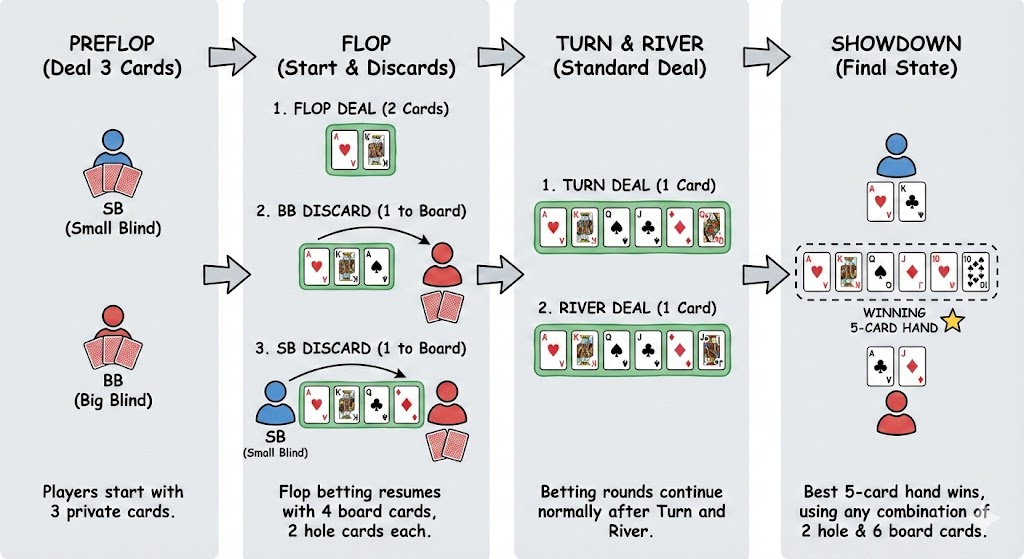
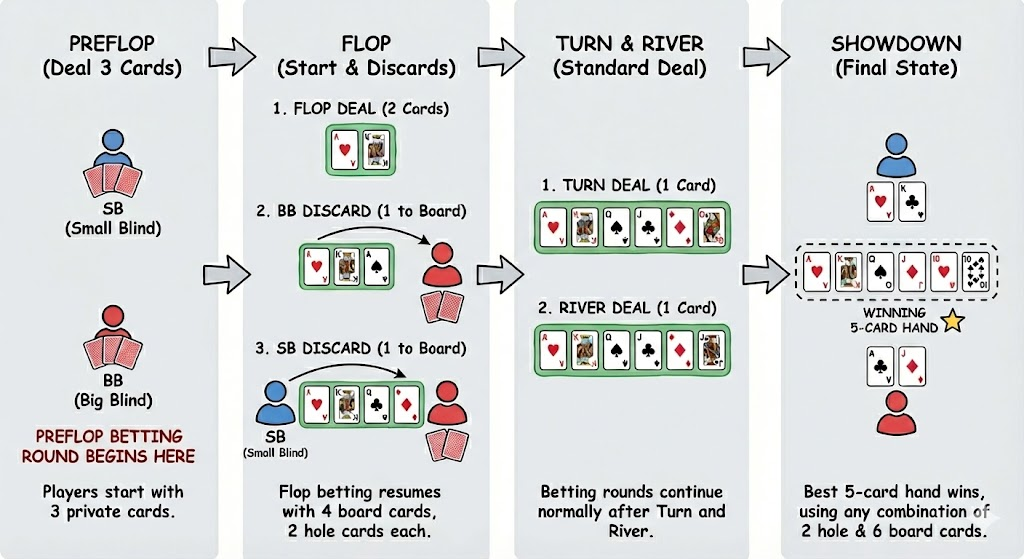
wording fixes

diff --git a/assets/blog/pokerbots.md b/assets/blog/pokerbots.md
@@ -1,10 +1,10 @@
-Very recently my team and I won MIT Pokerbots under the team Heyo999. Every year, MIT hosts a month long competition in January where competitors submit agents to play heads up poker in a custom variant. In this post, I aim to showcase the work that my team has put out without ruining the competition for future years. Many details are left open so that future competitors have a starting point but will still have to put in work and intuition to get good results. 
+Very recently my team and I won MIT Pokerbots under the team Heyo999. Every year, MIT hosts a month long competition in January where competitors submit agents to play heads up poker in a custom variant. In this post, I aim to showcase the work that my team has built without ruining the competition for future years. Many details are left open so that future competitors have a starting point but will still have to put in work and intuition to get good results. 
 
 I will assume you are familiar with a basic level of poker terminology. 
 
 ### Rules
 
-The variant is heads-up (1 vs 1) No-Limit Holdem with the following modifications. For Preflop, each player starts with 3 cards instead of 2. The flop begins with dealing 2 community cards. The big blind then discards a card, face-up, from their hand into the public board. Next, the small blind does the same thing. Flop betting resumes as normal, now with 4 cards on the board (and 2 private cards per player). The turn and river proceed as normal, with 5 and 6 public cards respectively. The person that wins the hand at showdown is still the person with the strongest 5 card hand. 
+The variant is heads-up (1 vs 1) No-Limit Holdem with the following modifications. For Preflop, each player starts with 3 cards instead of 2. Preflop betting proceeds as normal. The flop begins with dealing 2 community cards. The big blind then discards a card, face-up, from their hand into the public board. Next, the small blind does the same thing. Flop betting resumes as normal, now with 4 cards on the board (and 2 private cards per player). The turn and river proceed as normal, with 5 and 6 public cards respectively. The person that wins the hand at showdown is still the person with the strongest 5 card hand. 
 
 <details>
 <summary>Show Diagram</summary>
@@ -48,7 +48,7 @@ Regret matching is a no-regret algorithm, which means that regret grows sublinea
 
 ### Abstraction
 
-Poker is a huge game. For heads up no limit texas holdem, there are around $10^{18}$ infosets when you consider your private cards, community cards, and action history. Tabular CFR is utterly hopeless when it comes to solving a game of this scale. All solvers use some form of abstraction to group similar spots together when solving poker. 
+Poker is a huge game. We define an $infoset$ as a unique decision point. For heads up no limit texas holdem, there are around $10^{18}$ infosets when you consider your private cards, community cards, and action history. Tabular CFR is utterly hopeless when it comes to solving a game of this scale. All solvers use some form of abstraction to group similar spots together when solving poker. 
 
 For commercial solvers, there is always a form of history abstraction. We can quantize raises since we don't need the history to be that granular (such as betting 10 vs 11 chips into a pot of 100). During play against a live opponent, we round their action to an action on our own tree. The game is still huge after this. Some solvers will only let you solve starting on the flop. Deep learning has been the best recent answer here, serving as value functions or even replacing the tabular approach of CFR with neural networks. 
 
@@ -76,7 +76,7 @@ All-in always allowed.
 
 #### Card abstractions: 
 
-I will be referring to the abstraction as a bucket. 
+I will be referring to the abstraction as a bucket. We aim to group similar hands together. Once we determine how to define similar hands, the CFR algorithm has a much easier time since it has less decisions to make, as it is forced to play each hand in a bucket the same way.
 
 **Preflop:** We had 1755 buckets, one for each strategically unique 3-card hand. We determine if a hand is strategically unique through isomorphism. Isomorphism means two hands are strategically identical up to renaming suits (and swapping indistinguishable ranks).
 
@@ -108,7 +108,7 @@ $$\mathbf{f} = [h_1, h_2, h_3], \quad \mathbf{g} = [k_1, k_2, k_3]$$
 
 $$d(\mathbf{f}, \mathbf{g}) = \min_{\pi \in S_3} \left\| \begin{bmatrix} \text{EMD}(h_1, k_{\pi(1)}) \\ \text{EMD}(h_2, k_{\pi(2)}) \\ \text{EMD}(h_3, k_{\pi(3)}) \end{bmatrix} \right\|_2$$
 
-The permutation handles the fact that the 3 discard options have no canonical ordering. 
+The permutation handles the fact that the 3 discard options have no canonical ordering. We take the L2 norm of the EMDs because it makes sure the entire set of options aligns well. At runtime we order the three discard options by the permutation that best aligns to the cluster centroid, giving a consistent action index for CFR and live play.
 
 <details>
 <summary>Show Discard Feature</summary>
@@ -119,9 +119,9 @@ The permutation handles the fact that the 3 discard options have no canonical or
 
 </details>
 
-For above methods, note that we get isomorphism for free since isomorphic hands produce the same histograms. We take the L2 norm of the EMDs because it makes sure the entire set of options aligns well.
+For above methods, note that we get isomorphism for free since isomorphic hands produce the same histograms. 
 
-We cut down the number of infosets to roughly **10 million** for the final submission. Each infoset can be keyed by the complete betting history and the card cluster. 
+We cut down the number of infosets to roughly **10 million** for the final submission. Each infoset can be keyed by the abstracted betting history and the card cluster. 
 
 ### Engineering and Training
 
